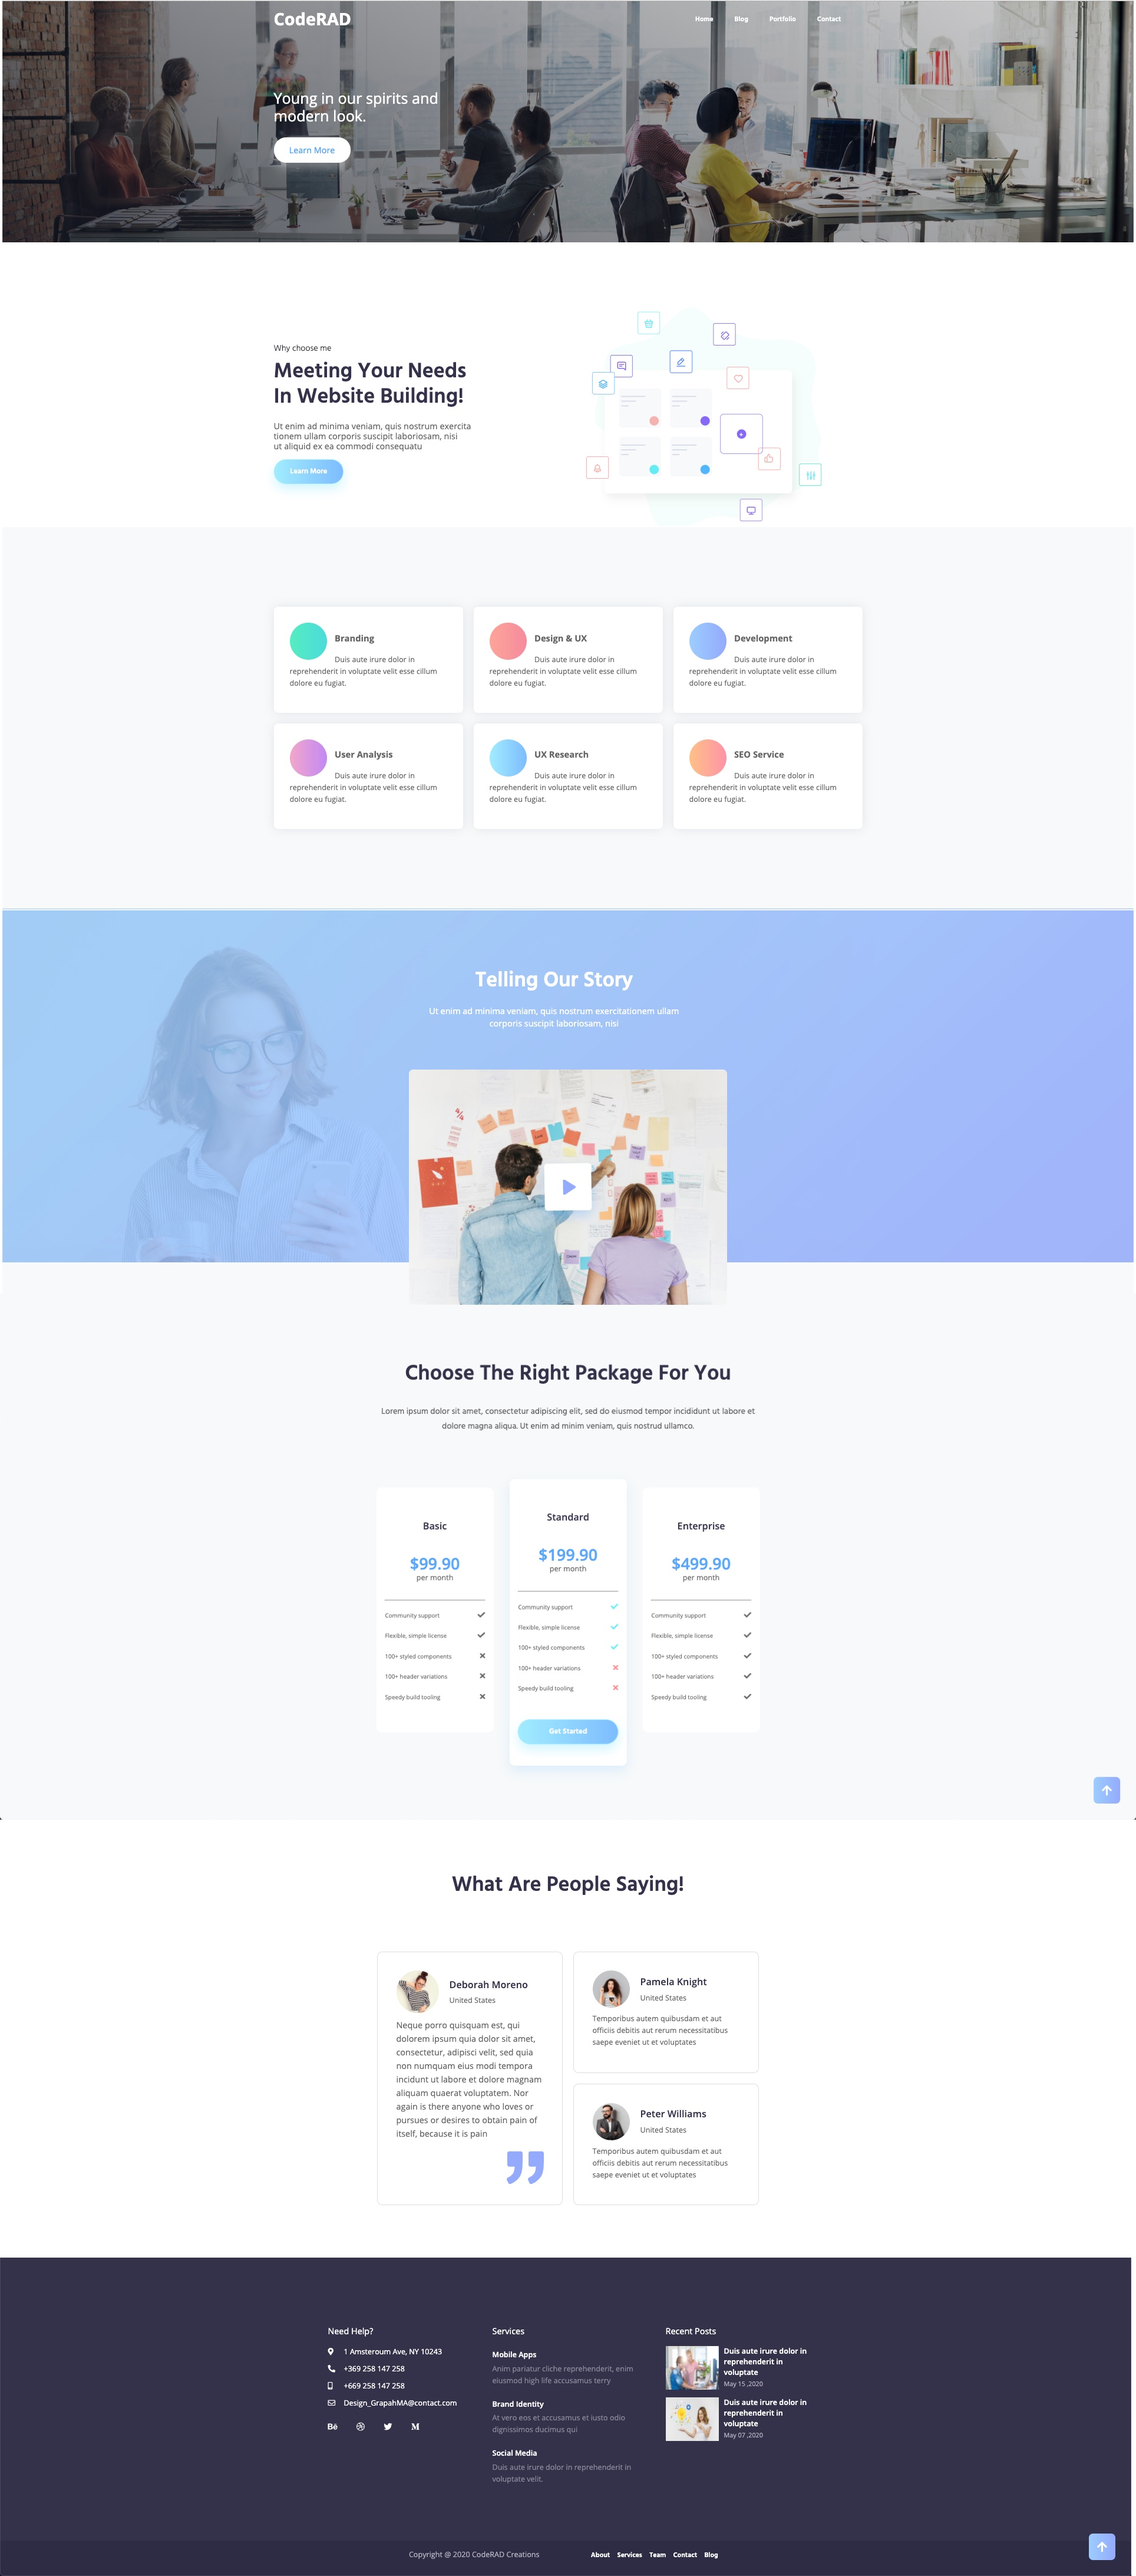
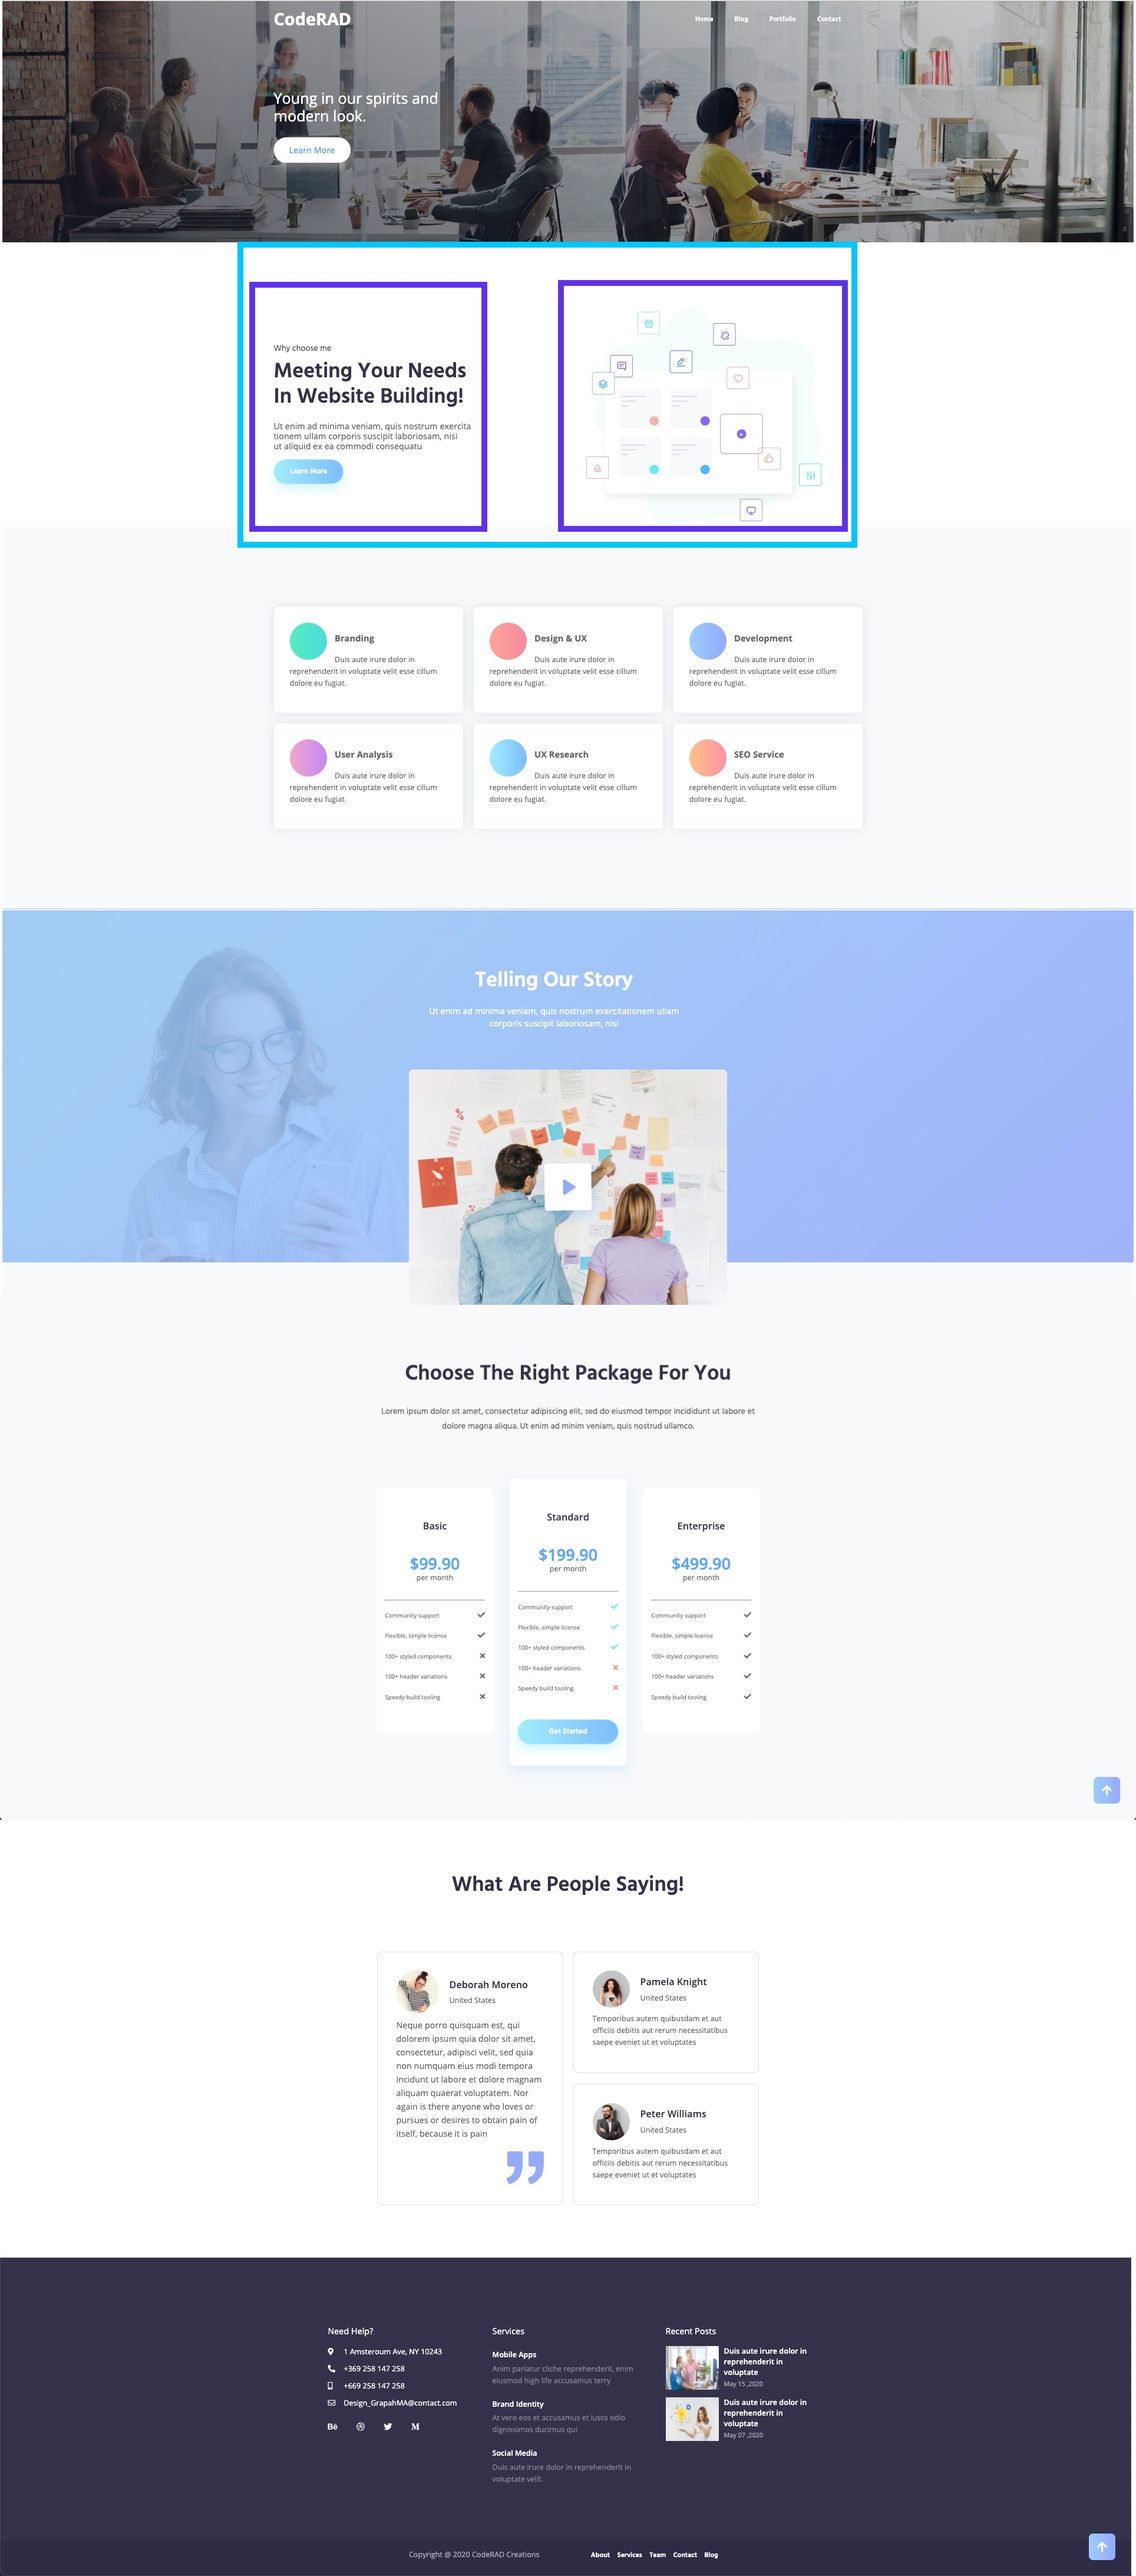
began building out second section on page

Changed region(s): [[0.4668, 0.0934, 0.778, 0.2179], [0.1867, 0.0934, 0.4357, 0.2179]]

diff --git a/index.html b/index.html
@@ -67,6 +67,25 @@
             </div>
         </div>
     </header>
+
+    <section>
+        <div class="container why-me-wrapper">
+            <div class="block-text">
+                <span>Why choose me?</span>
+                <h2>Meeting Your Needs<br>
+                    In Website Building</h2>
+                <p>Lorem ipsum dolor sit amet, consectetur adipiscing elit, sed do eiusmod tempor incididunt ut labore
+                    et dolore magna aliqua. Volutpat consequat mauris nunc congue nisi vitae suscipit tellus.</p>
+                    <a href="#" class="btn">Learn More</a>
+            </div>
+            <div>
+                <img src="CodeRad-assets/image2.svg" alt="icon chart">
+            </div>
+        </div>
+    </section>
+
+
+
 </body>
 
 </html>

diff --git a/css/normalize.css b/css/normalize.css
@@ -12,6 +12,17 @@
     --danger: #FF8B8D;
     --grad-1: #a1ecff;
     --grad-2: #7dbcff;
+
+    --size-10: 0.625rem;
+    --size-14: 0.875rem;
+    --size-16: 1rem;
+    --size-18: 1.125rem;
+    --size-20: 1.25rem;
+    --size-30: 1.875rem;
+    --size-40: 2.5rem;
+    --size-50: 3.125rem;
+    --size-100: 6.25rem;
+    --size-150: 9.375rem;
 }
 
 body {
@@ -47,7 +58,7 @@ p {
 }
 
 h2 {
-    font-size: 2rem;
+    font-size: 1.75rem;
     font-weight: 500;
     line-height: 1.2;
 }
@@ -84,6 +95,8 @@ img {
 .btn-white {
     background-color: var(--white);
     color: var(--font-color-link);
+    padding: 0.475rem 1.75rem;
+    box-shadow: 0px 10px 20px rgb(255,255,255, 0.35);
 }
 
 

diff --git a/css/style.css b/css/style.css
@@ -36,8 +36,8 @@
     font-weight: 600;
     font-family: "Hind", sans-serif;
     text-transform: uppercase;
-    margin-right: 2.5rem;
-    line-height: 1.25;
+    margin-right: var(--size-40);
+    line-height: var(--size-20);
 }
 
 .bg-header {
@@ -70,4 +70,21 @@
 
 .hero-header {
     color: var(--white);
+}
+
+h2 {
+    font-size: 2.5rem;
+}
+
+.why-me-wrapper {
+    display: flex;
+    align-items: center;
+}
+
+.why-me-wrapper div {
+    flex: 1;
+}
+
+.block-text {
+    padding-right: 3.125rem;
 }
